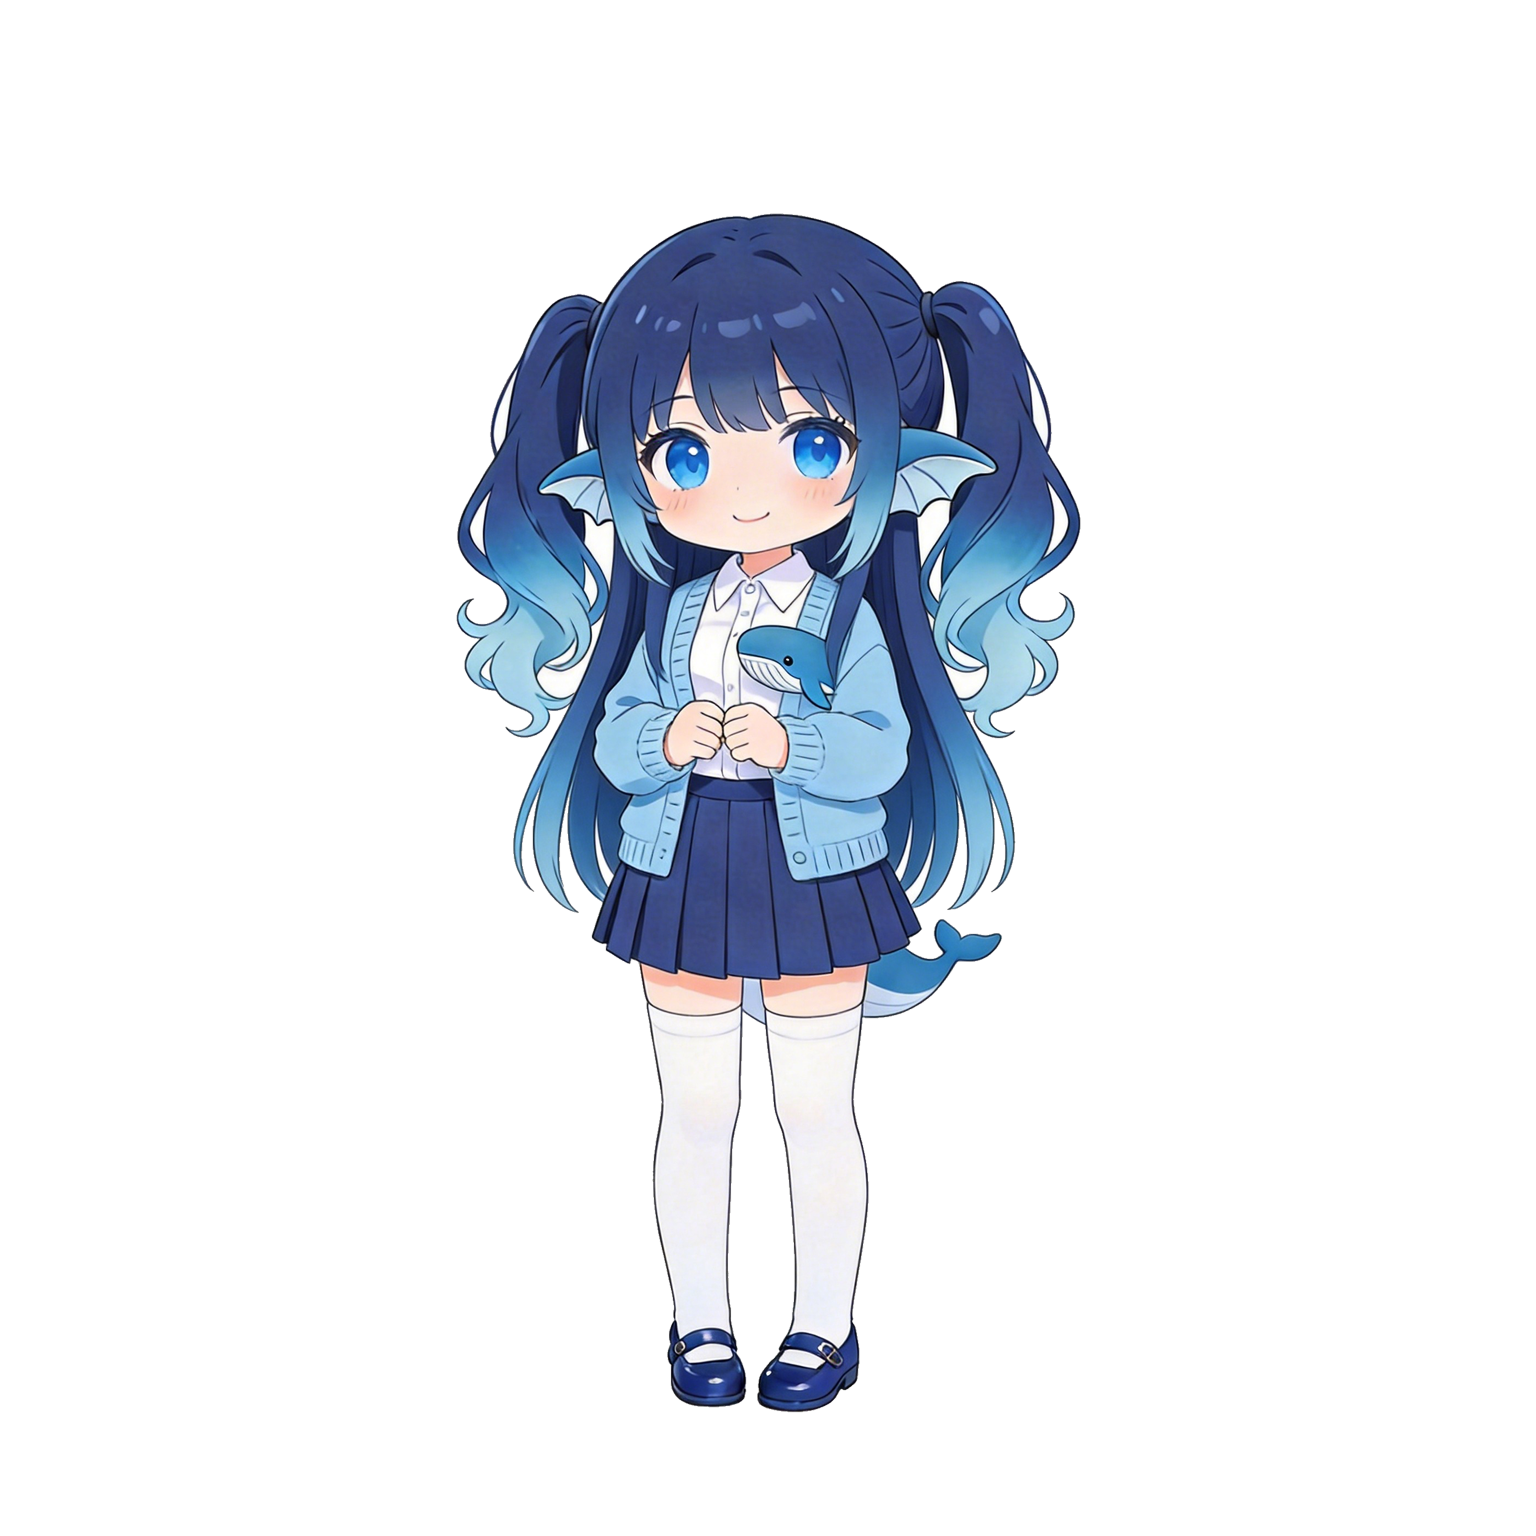
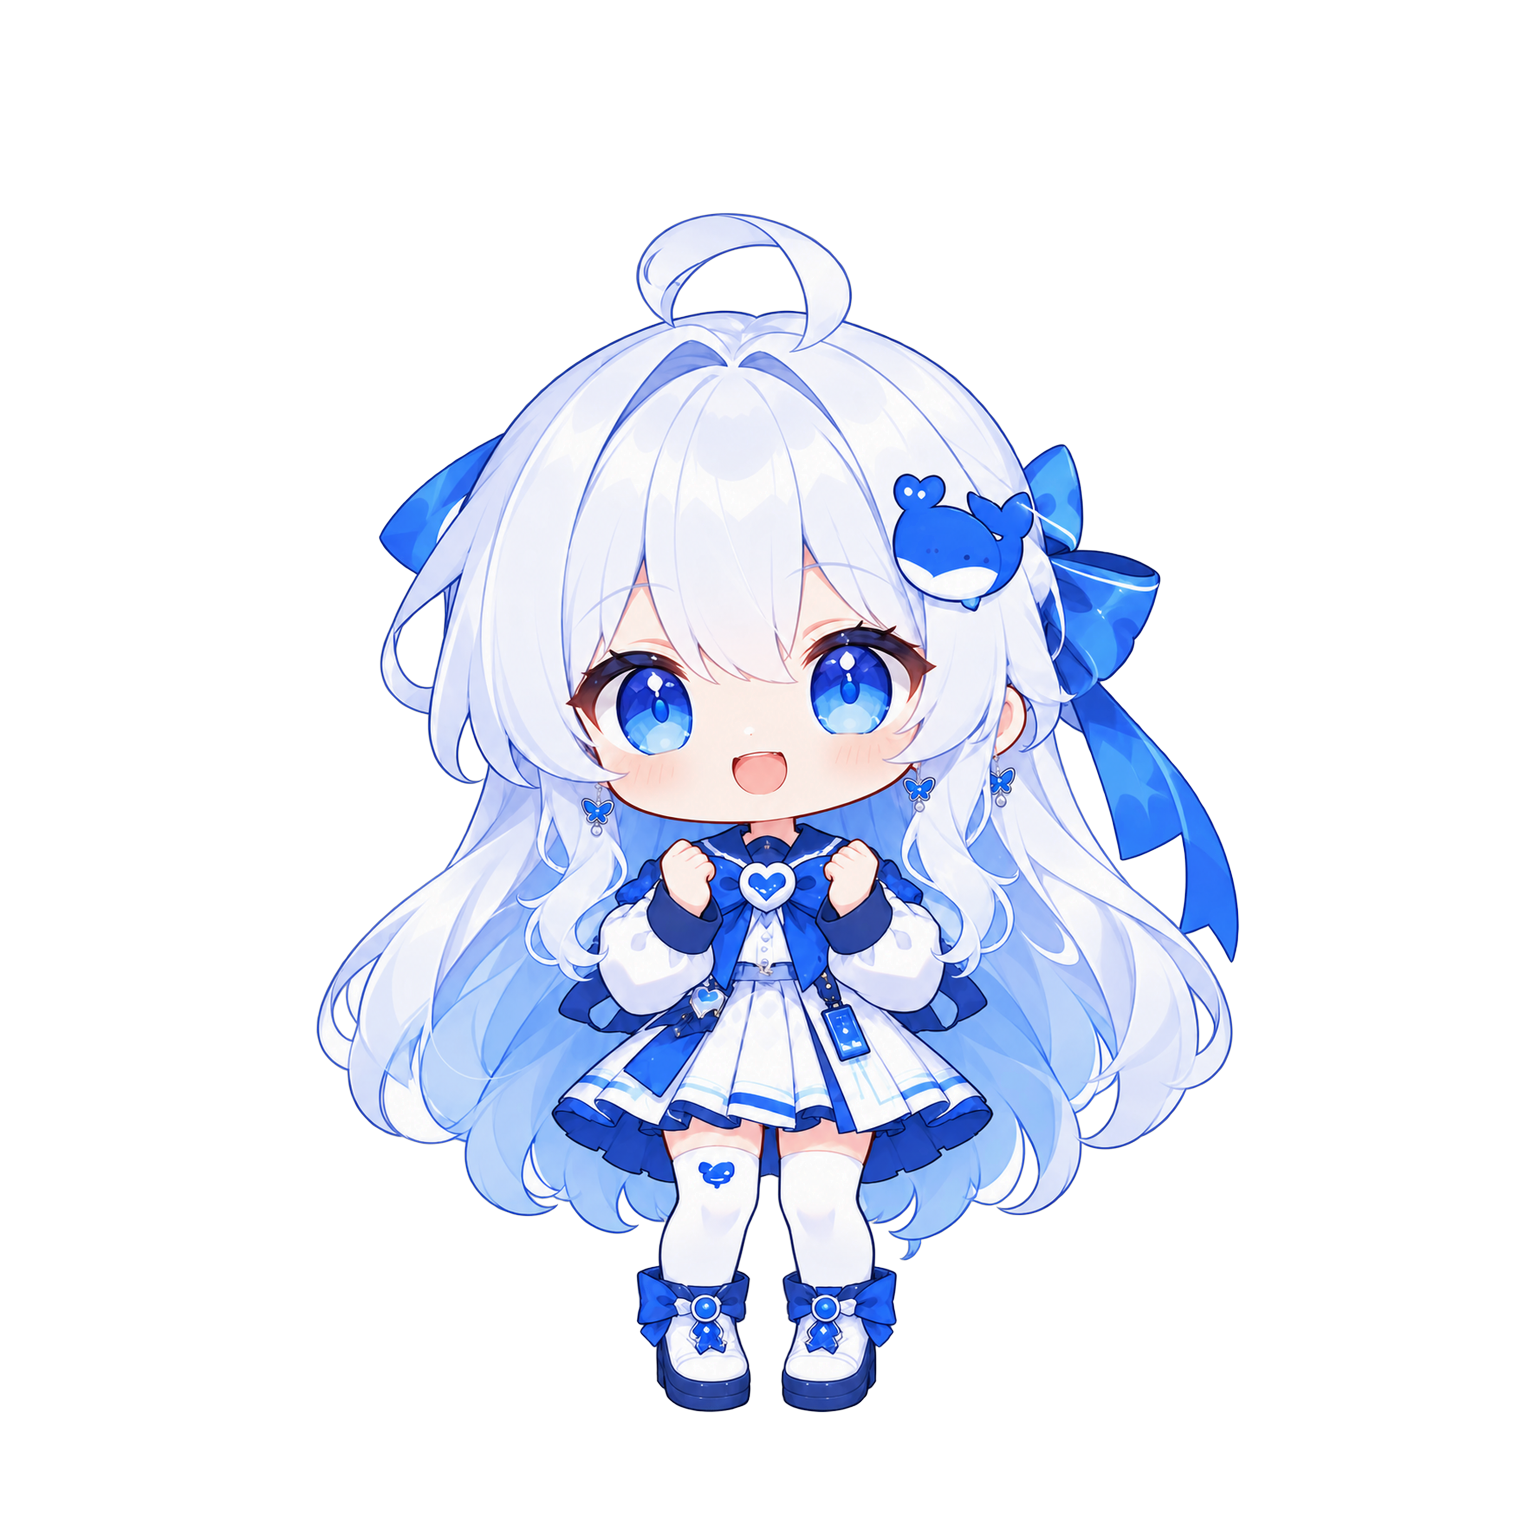
feat(desktop): 解禁眨眼 —— 接入站姿睁眼/闭眼两帧
组长给的"睁眼张嘴 / 闭眼张嘴"两张是【两次独立生成】（全身 21.5% 像素不同、
脚底还差 9px），整图硬切会全身抖。所以 blink_1 不是那张原生闭眼图，而是用
_素材工作区/_眨眼对位.py 把闭眼图的【眼部区域】合成到睁眼图上 —— 身体像素与
blink_0 完全一致，抖动为零。

- idle 改用站姿（blink_0 同一张图）。原来 expressions/idle.png 是漂浮姿势，
  轮廓宽高比 0.92 vs 站姿 0.77，不换的话眨眼瞬间会从"坐着"跳到"站着"。
  帧序 [睁眼, 闭眼] 也是 FramePet 的硬要求：它拿 frames[0] 和当前贴图比对，
  相等才跳过第一帧——所以 idle 与 blink_0 用同一个 import 不是巧合。
- 归一化走既有流水线（逐帧模式），两帧头心/脚底/高度完全一致。
- 旧角色 blink 帧归档到 _素材工作区/_旧素材归档/，没有删。
- main/index.js：调试连拍加 DEEPPROF_SNAP_MS / DEEPPROF_SNAP_N。
  原来写死 2 秒一张，眨眼闭眼只有 110ms，撞上概率约 5%，根本抓不到。

实测（120 张连拍 @120ms，数蓝眼珠像素）：t38 / t86 出现闭眼，两次间隔 5.76 秒，
落在 App.jsx 的 3~7 秒随机区间内。截图确认闭眼自然、无接缝。

talk 仍停用：组长给的两张都是张嘴的，没有同姿势的闭嘴版，做不出嘴开合。

Changed region(s): [[0.1875, 0.125, 0.8125, 0.9375]]

diff --git a/desktop/src/renderer/src/petAnimations.js b/desktop/src/renderer/src/petAnimations.js
@@ -15,9 +15,11 @@
  *      角色会**恒为一半大**：不报错、不崩溃、只是"看着不对"。
  *
  * ✅ 走路 4 帧 —— **2026-09-20 解禁**（组长给了新角色的侧视四格图）。
- * ⏸ 眨眼 / 说话 —— 仍停用（这两张图组长还没给；旧的帧还在 `frames/blink|talk/` 下，
- *    只是不再 import）。接回步骤见文件中部那段注释。
- * ⏸ 待机 2 帧（`idle_0` / `idle_1`）—— 仍未产出，`idle` 还是单帧。
+ * ✅ 眨眼 2 帧 —— **2026-09-20 解禁**（组长给了站姿的睁眼/闭眼两张）。
+ * ⏸ 说话 —— 仍停用：组长给的两张**都是张嘴的**（睁眼张嘴 / 闭眼张嘴），
+ *    没有同姿势的闭嘴版，做不出「嘴开合」。要接 talk 得再要一张闭嘴图。
+ *    旧的帧还在 `frames/talk/` 下，只是不再 import。
+ * ⏸ 待机 2 帧（`idle_0` / `idle_1`）—— 仍未产出，`idle` 是单帧。
  *    单帧时靠 FramePet 的 sway 形变滤镜 + 弹跳补一点"活着"的感觉。
  *
  * ⚠ `assets/pet/idle.png`（642×1024）**仍是上一个角色**，但它现在**没有出口**：
@@ -76,9 +78,15 @@ import walk0Url from './assets/pet/frames/walk/walk_0.png'
 import walk1Url from './assets/pet/frames/walk/walk_1.png'
 import walk2Url from './assets/pet/frames/walk/walk_2.png'
 import walk3Url from './assets/pet/frames/walk/walk_3.png'
-// ⏸ 眨眼 / 说话仍停用 —— 这两张图组长还没给（见 _待确认 文档里的「要图清单」）
-// import blink0Url from './assets/pet/frames/blink/blink_0.png'
-// import blink1Url from './assets/pet/frames/blink/blink_1.png'
+// ✅ 眨眼 2 帧 —— 2026-09-20 解禁。走的是同一批站姿图（睁眼 / 闭眼）。
+//    ⚠ blink_1（闭眼）**不是**组长那张原生闭眼图，而是拿 blink_0 改眼睛合成出来的
+//    —— 两张原图是【两次独立生成】，全身 21.5% 像素不同、脚底还差 9px，
+//    整图硬切会全身抖。合成后 blink_1 的身体像素与 blink_0 完全一致，抖动为零。
+//    合成脚本：`_素材工作区/_眨眼对位.py`（可重跑）。
+import blinkGeo from './assets/pet/frames/blink/geometry.json'
+import blink0Url from './assets/pet/frames/blink/blink_0.png'
+import blink1Url from './assets/pet/frames/blink/blink_1.png'
+// ⏸ 说话仍停用 —— 组长那两张都是张嘴的，没有闭嘴版（见文件头说明）
 // import talk0Url from './assets/pet/frames/talk/talk_0.png'
 // import talk1Url from './assets/pet/frames/talk/talk_1.png'
 
@@ -89,10 +97,19 @@ import walk3Url from './assets/pet/frames/walk/walk_3.png'
  */
 export const EXPRESSION_GEOMETRY = geometry
 export const WALK_GEOMETRY = walkGeo
+export const BLINK_GEOMETRY = blinkGeo
 
 export const ANIMATIONS = {
-  // ---- 待机：帧没出，先用 idle 单图 + 形变滤镜做呼吸 ----
-  idle: { frames: [idleUrl], fps: 1.5, loop: true, sway: false },
+  // ---- 待机：⚠ 2026-09-20 起改用【站姿】眨眼批的第 0 帧 ----
+  //    为什么不用 expressions/idle.png：那张是**漂浮/坐姿**，而组长新给的眨眼对
+  //    是**站姿**（轮廓宽高比 0.77 vs 0.92）。idle 若还是漂浮的，眨眼瞬间小人会
+  //    从"坐着"跳到"站着" —— 那不是眨眼，是变身。
+  //    所以 idle 与 blink_0 **必须是同一张图**（这条 petAnimations 自己的接回
+  //    说明里就写了：「眨眼和说话的第一帧要跟表情批的 idle 同一张图才无缝」）。
+  //    现在两张是同一个文件，天然无缝。
+  //    ⚠ 代价：6 张教学表情仍是漂浮姿势，切表情时会在两种姿势间跳 —— 这在本轮
+  //    之前就存在（6 张立绘本来就各是不同姿势），不是这次引入的。
+  idle: { frames: [blink0Url], fps: 1.5, loop: true, sway: false, geo: blinkGeo },
 
   // ---- 走路：✅ 2026-09-20 解禁（组长给了新角色的侧视四格）----
   // ⚠ 必须带自己的 geo：走路那批角色框比表情批【宽】（侧视时身体/头发前后伸出去），
@@ -112,11 +129,13 @@ export const ANIMATIONS = {
   // （见文件末尾）。所以流式期间会正常显示当前教学表情，只是嘴不动。
   talk: { frames: [idleUrl], fps: 6, loop: true, sway: false },
 
-  // ---- 眨眼：⏸ 已停用（旧帧是上个角色）----
-  // 这里仍然保留 overlay 的结构（App.jsx 靠 ANIMATIONS.blink.frames 触发），
-  // 但两帧都是 idle，所以"眨"了等于没眨 —— 不会露出旧角色的脸。
-  // 接回新帧时把 holds 恢复成 [90, 110]（闭眼必须比睁眼短，否则是"闭着眼发呆"）。
-  blink: { frames: [idleUrl], holds: [90], loop: false, sway: false },
+  // ---- 眨眼：✅ 2026-09-20 解禁（站姿睁眼/闭眼两张）----
+  // 帧序**必须是 [睁眼, 闭眼]**：FramePet 会拿 frames[0] 和当前贴图比对，
+  // 相等就**跳过第 1 帧**直接从闭眼起播（省掉"重播一遍已经显示着的图"）。
+  // 所以 idle 与 blink_0 用同一个 import 是硬要求，不是巧合。
+  // holds[0] 因此平时用不到（只在没跳过时兜底）；真正起作用的是 holds[1] = 闭眼 110ms。
+  // 眨眼节奏由 App.jsx 的 blinkTimer 3~7 秒随机触发（不等长停留，避免机械感）。
+  blink: { frames: [blink0Url, blink1Url], holds: [90, 110], loop: false, sway: false },
 
   /* ---- 教学节点 ----
    *

diff --git a/desktop/src/main/index.js b/desktop/src/main/index.js
@@ -448,12 +448,21 @@ function createWindow() {
 
 
     // 连拍：桌宠是"溜达"的，只在启动瞬间抓一张会正好错过它在走的时刻。
-    // 平时别开（每次启动留 11 个文件太吵），要查动画时设 DEEPPROF_SNAP=1 再启动。
+    // 平时别开（每次启动留一堆文件太吵），要查动画时设 DEEPPROF_SNAP=1 再启动。
+    //
+    // ⚠ 2026-09-20 加了间隔/张数可配：原来写死 2 秒 × 10 张，**抓不到眨眼**。
+    //    眨眼闭眼只有 110ms，2 秒一采样撞上的概率约 5%。要查眨眼得把间隔压到
+    //    100~200ms 连拍十几秒，比如：
+    //        DEEPPROF_SNAP=1 DEEPPROF_SNAP_MS=120 DEEPPROF_SNAP_N=120 npm run dev
     if (process.env.DEEPPROF_SNAP) {
-      for (let i = 1; i <= 10; i++) {
-        setTimeout(() => snap(`-t${i}`), i * 2000)
+      const every = Number(process.env.DEEPPROF_SNAP_MS) || 2000
+      const count = Number(process.env.DEEPPROF_SNAP_N) || 10
+      for (let i = 1; i <= count; i++) {
+        setTimeout(() => snap(`-t${i}`), i * every)
       }
-      console.log('[桌宠] 连拍模式已开启（DEEPPROF_SNAP）—— 每 2 秒一张，共 10 张')
+      console.log(
+        `[桌宠] 连拍模式已开启（DEEPPROF_SNAP）—— 每 ${every}ms 一张，共 ${count} 张`
+      )
     }
   })
 
